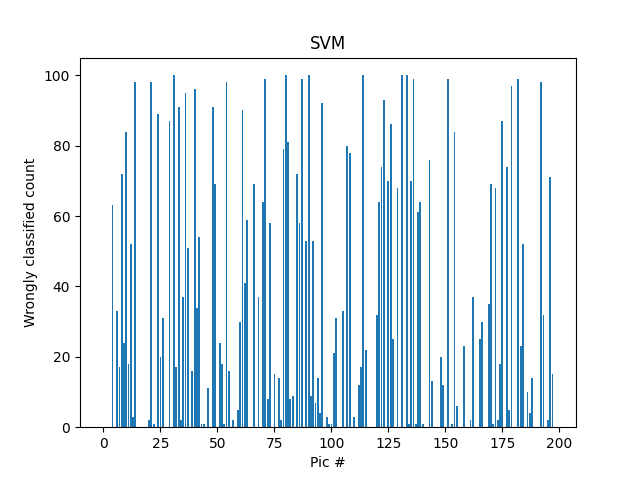
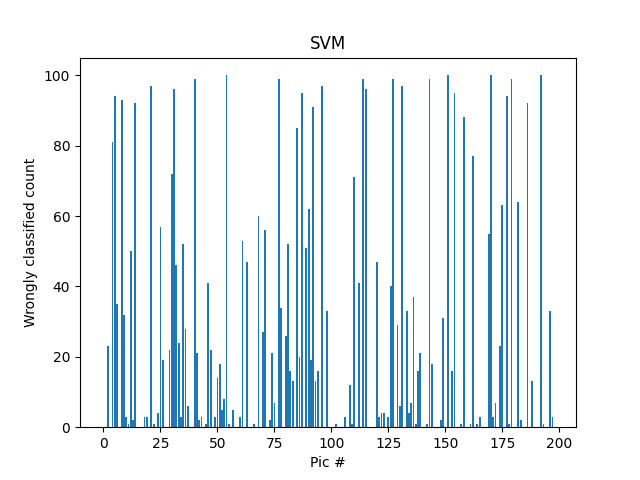
asd

diff --git a/2c/main.py b/2c/main.py
@@ -11,7 +11,9 @@ import numpy as np
 from matplotlib import pyplot as plt
 from sklearn.model_selection import StratifiedKFold
 from tqdm import trange
+from sklearn.feature_selection import SelectFromModel
 import random
+from sklearn.utils import resample
 
 def histogram(wrong_list):
     histo = np.zeros(198)
@@ -73,6 +75,40 @@ def get_noisy_errors(pics, err_pics):
             noisy_errors.append(ind)
     return len(noisy_errors)/len(err_pics)
 
+def plot_err(errors, df):
+    pics = [df[df.index == error] for error in errors]
+    print(errors)
+    pics = [np.array(pic).reshape(64, 64).T for pic in pics]
+    for pic in pics:
+        # plt.title(f'label = {label[label.index==errors]}')
+        plt.imshow(pic)
+
+
+def plot_feat(feat_list, method):
+    try:
+        data = pd.read_csv("/Users/antonrosenberg/Documents/GitHub/BigDTenta/CATSnDOGS.csv") / 255
+        label = pd.read_csv("/Users/antonrosenberg/Documents/GitHub/BigDTenta/Labels.csv")
+    except:
+        data = pd.read_csv("C:/Users/anton\OneDrive\Dokument\GitHub\BigDTenta/CATSnDOGS.csv") / 255
+        label = pd.read_csv("C:/Users/anton\OneDrive\Dokument\GitHub\BigDTenta/Labels.csv")
+
+    plt.figure()
+    pic1 = np.array(data.iloc[2])
+    plt.title(f'label = {get_label(np.array(label.iloc[2]))}, '+method)
+    plt.imshow(pic1.reshape(64, 64).T)
+    image = np.zeros(np.shape(data)[1])
+    for feat in feat_list:
+        image[int(feat)]+=1
+    print(image)
+    plt.imshow(image.reshape(64,64).T, alpha=0.5)
+
+
+def count(feat_list, count_list: np.ndarray, ind: int) -> np.ndarray:
+    for num in feat_list:
+        count_list[ind, num] += 1
+    return count_list
+
+
 def get_rot_data(data):
     num_pics = int(len(data) / 2)
     pics = random.sample(range(0, len(data)), num_pics)
@@ -81,6 +117,68 @@ def get_rot_data(data):
         data.iloc[ind] = np.rot90(np.rot90(pic)).flatten()
     data = pd.DataFrame(data)
     return data, pics
+
+
+def run_1b(data, label):
+
+    np_data = np.array(data)
+    np_labels = np.array(label).flatten()
+
+    num_runs = 100
+    threshold = 0.5
+
+    method = ['Logistic Regression', 'Random Forest', 'Linear svc']
+
+    count_feat = np.zeros([3, np.shape(data)[1]])
+    for i in trange(num_runs):
+        X_boot, y_boot = resample(data, label, n_samples=round(len(data)))
+
+        LogReg = LogisticRegression(C=0.05736152510448681, max_iter=1000)
+        LogReg.fit(X_boot, y_boot.values.ravel())
+        model = SelectFromModel(LogReg, prefit=True)
+        LogReg_features = model.get_support(indices=True)
+        X_LogReg = model.transform(X_boot)
+
+        count_feat = count(feat_list=LogReg_features, count_list=count_feat, ind=0)
+
+        RandForest = RandomForestClassifier()
+        RandForest.fit(X_boot, y_boot.values.ravel())
+        model = SelectFromModel(RandForest, prefit=True)
+        RandForest_features = model.get_support(indices=True)
+        X_RandForest = model.transform(X_boot)
+
+        count_feat = count(feat_list=RandForest_features, count_list=count_feat, ind=1)
+
+        lsvc = SVC(C=9, kernel='linear', max_iter=10000)
+        lsvc.fit(X_boot, y_boot.values.ravel())
+        model = SelectFromModel(lsvc, prefit=True)
+        lsvc_features = model.get_support(indices=True)
+        X_lsvc = model.transform(X_boot)
+
+        count_feat = count(feat_list=lsvc_features, count_list=count_feat, ind=2)
+
+        print(len(LogReg_features), np.shape(X_LogReg))
+        print(len(RandForest_features), np.shape(X_RandForest))
+        print(len(lsvc_features), np.shape(X_lsvc))
+
+    plt.figure()
+    plt.title('Logistic Regression')
+    plt.bar(range(np.shape(data)[1]), count_feat[0, :])
+    plt.figure()
+    plt.title('Random Forest')
+    plt.bar(range(np.shape(data)[1]), count_feat[1, :])
+    plt.figure()
+    plt.title('Linear svc')
+    plt.bar(range(np.shape(data)[1]), count_feat[2, :])
+
+    count_feat[count_feat < num_runs * threshold] = 0
+
+    for i in range(len(count_feat[:, 0])):
+        feat_list = np.nonzero(count_feat[i, :])
+        plot_feat(feat_list[0], method[i])
+
+    plt.show()
+
 
 def main(num_runs):
     try:
@@ -103,11 +201,12 @@ def main(num_runs):
     x_tr, x_te, y_tr, y_te = train_test_split(data, label, test_size=0.1, random_state=8)
 
     k = 5
-
+    params_SVC = 9.236708571873866
+    params_LogReg = 0.05736152510448681
     for j in trange(num_runs):
         kf = StratifiedKFold(n_splits=k, shuffle=True)
         prediction = []
-        models = [SVC(), RandomForestClassifier(), LogisticRegression(max_iter=1000, penalty='l2')]
+        models = [SVC(C=params_SVC), RandomForestClassifier(), LogisticRegression(C=params_LogReg, max_iter=1000, penalty='l2')]
         score = np.zeros([len(models), k])
         fold_ind = 0
         for train_index, test_index in kf.split(x_tr, y_tr):
@@ -116,7 +215,7 @@ def main(num_runs):
             for ind, model in enumerate(models):
                 model.fit(X_train, y_train.values.ravel())
                 prediction = model.predict(X_test)
-                score[ind, fold_ind]=(model.score(X_test, y_test))
+                score[ind, fold_ind]=(model.score(x_te, y_te))
                 tn, fp, fn, tp = confusion_matrix(y_test, prediction).ravel()
                 wrong_list.append(check_predictions(prediction, y_test))
                 tpr.append(tp/(tp+fn))
@@ -221,8 +320,16 @@ def main(num_runs):
 
 
 if __name__ == '__main__':
+    try:
+        data = pd.read_csv("/Users/antonrosenberg/Documents/GitHub/BigDTenta/CATSnDOGS.csv") / 255
+        label = pd.read_csv("/Users/antonrosenberg/Documents/GitHub/BigDTenta/Labels.csv")
+    except:
+        data = pd.read_csv("C:/Users/anton\OneDrive\Dokument\GitHub\BigDTenta/CATSnDOGS.csv") / 255
+        label = pd.read_csv("C:/Users/anton\OneDrive\Dokument\GitHub\BigDTenta/Labels.csv")
+    data, pics = get_rot_data(data)
     num_runs = 100
-    main(num_runs)
+    #main(num_runs)
+    run_1b(data, label)
 
 
 
